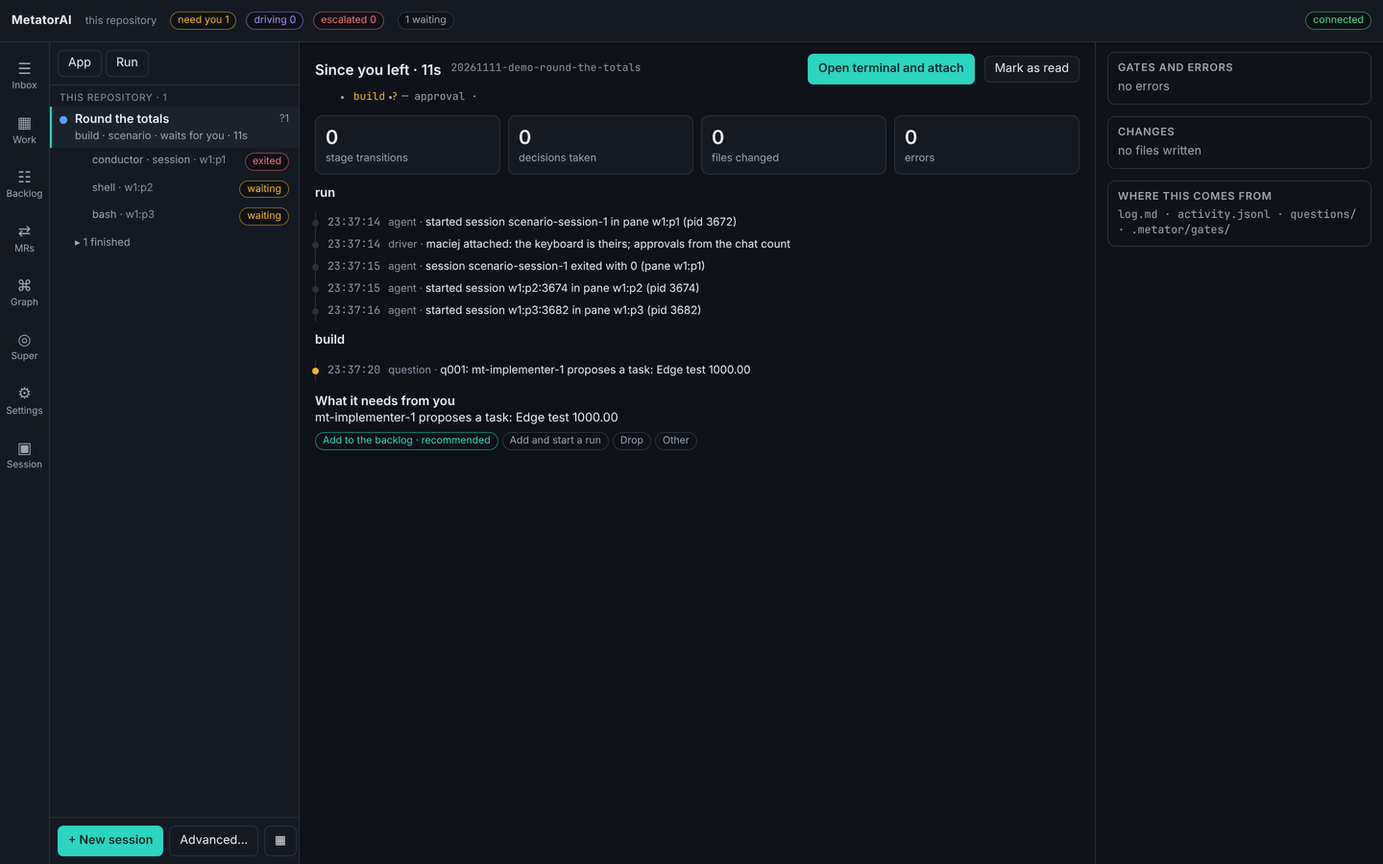
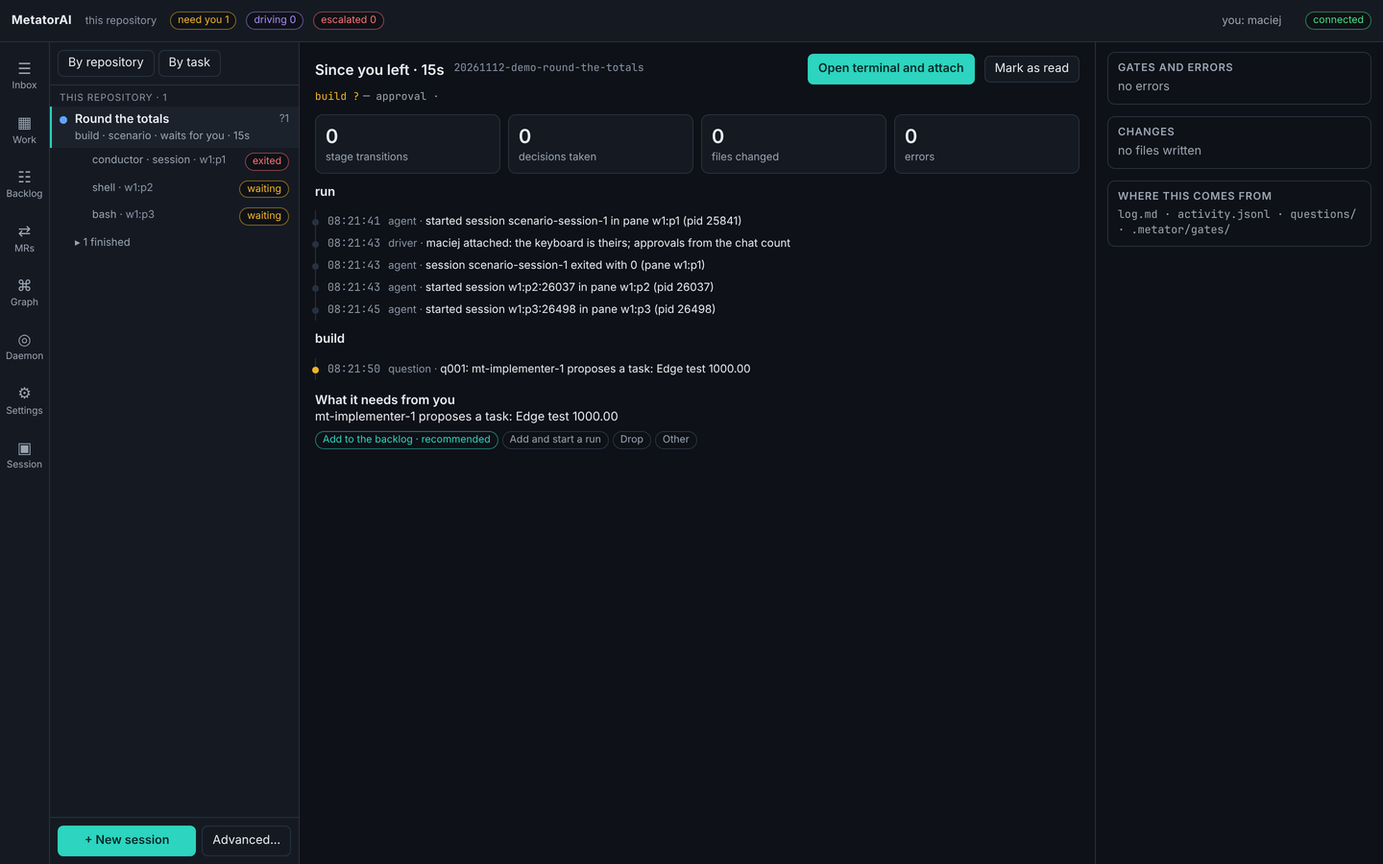
Desktop: the site and its screenshots follow the app; pane titles stay on one line
The pages under site/use and the first-run guide describe the name dialog,
the no-daemon panel, the host check, terminal asks, the required reason,
the repository select and the renamed labels (Daemon, By repository / By
task). The thirteen screenshots are taken again from the changed app.
A pane's title no longer covers the terminal's first line or wraps in a
narrow pane; the module cards cite the lines that moved.

Claude-Session: https://claude.ai/code/session_01Jm8qrbqgRxg49eTcPfKTwN

diff --git a/packages/desktop/src/screens/workbench.tsx b/packages/desktop/src/screens/workbench.tsx
@@ -536,10 +536,15 @@ export function WorkbenchScreen({
           <div className="empty" />
         )}
         {p.live?.alive ? null : (
-          <div className="pane-ended" role="status" data-testid={`ended-${p.id}`}>
+          <div
+            className="pane-ended"
+            role="status"
+            data-testid={`ended-${p.id}`}
+            title={p.live ? "The pane keeps the last output of the process." : undefined}
+          >
             <span className="msg">
               {p.live
-                ? `The process ended${p.live.exitCode !== undefined ? ` with code ${p.live.exitCode}` : ""}. Its last output is above.`
+                ? `The process ended${p.live.exitCode !== undefined ? ` with code ${p.live.exitCode}` : ""}.`
                 : "Nothing runs in this pane: its process did not start, or the daemon was restarted."}
             </span>
             <button type="button" className="primary" onClick={() => void retryPane(p)}>

diff --git a/packages/desktop/src/screens/supervisor.tsx b/packages/desktop/src/screens/supervisor.tsx
@@ -27,8 +27,9 @@ export function SupervisorScreen({
           <h2>Daemon</h2>
           <span className={`chip ${view ? "green" : "red"}`}>{view ? "running" : "no answer"}</span>
           <span className="dim">
-            {active.length} sessions · {installed.length} of {hosts.length} hosts installed · up{" "}
-            {view ? duration(view.daemon.uptimeMs) : "—"} · <code>{view?.daemon.url ?? url}</code>
+            {active.length} session{active.length === 1 ? "" : "s"} · {installed.length} of {hosts.length}{" "}
+            hosts installed · up {view ? duration(view.daemon.uptimeMs) : "—"} ·{" "}
+            <code>{view?.daemon.url ?? url}</code>
           </span>
           <span style={{ flex: 1 }} />
           <RepoSelect />

diff --git a/e2e/desktop-daemon.e2e.test.ts b/e2e/desktop-daemon.e2e.test.ts
@@ -228,7 +228,7 @@ describe("MetatorAI Desktop and the daemon's own troubles (real daemon, real Chr
     await ended.waitFor({ timeout: 20_000 });
     const panes = (await api("/layout")).data.panes as { id: string; process: { host: string } }[];
     expect(panes.map((p) => p.process.host)).toEqual(["claude"]);
-    expect(await ended.textContent()).toContain("The process ended with code 3. Its last output is above.");
+    expect(await ended.textContent()).toContain("The process ended with code 3.");
     await until("the last output", async () =>
       (await page.locator(".pane-frame").first().textContent())?.includes("claude: not logged in")
         ? true

diff --git a/packages/desktop/src/styles.css b/packages/desktop/src/styles.css
@@ -1308,9 +1308,14 @@ h3 {
   font-size: 12px;
   color: var(--dim);
   cursor: default;
-  /* A button is 28px tall by default: the title must not cover the terminal's first line. */
+  /* A button is 28px tall by default: the title must not cover the terminal's first line, in a
+     narrow pane either. */
   min-height: 0;
   line-height: 16px;
+  max-width: calc(100% - 28px);
+  white-space: nowrap;
+  overflow: hidden;
+  text-overflow: ellipsis;
 }
 .pane-frame.focus .title {
   color: #e8825a;

diff --git a/site/use/index.md b/site/use/index.md
@@ -20,15 +20,19 @@ Then open the app. The installers are built by the `desktop` workflow of the Met
 cd packages/desktop && bun run tauri dev     # needs Rust and the platform's webview
 ```
 
-The app looks for the daemon at the default address. The chip on the right of the top bar reads **connected** when it found it. If your daemon listens elsewhere, open **Settings**, choose the group **app** and change **daemon url** ([Your settings](./settings.md#daemon-address-and-your-name)).
+The app looks for the daemon at the default address. The chip on the right of the top bar reads **connected** when it found it.
+
+When nothing answers at that address, the chip reads **no daemon** and the main area shows one panel on every screen: what is wrong, the command `metator serve`, a field with the daemon's address, and **Retry**. If your daemon listens elsewhere, type its address in the field and click **Retry**; the app remembers it. The app also tries again by itself every two seconds, and the screen you were on returns as soon as the daemon answers. The same address is in **Settings**, group **app**, as **daemon url** ([Your settings](./settings.md#daemon-address-and-your-name)).
 
 ![The app with an empty Inbox: the screens on the left edge, the sessions panel, and the queue](../public/screens/inbox-empty.png)
 
 ## The window
 
-The top bar counts the runs: **need you** (a question waits for your answer), **driving** (an agent works) and **escalated** (the run stopped and needs work from you).
+The top bar counts the runs: **need you** (a question waits for your answer, on a card in the Inbox or in the run's terminal), **driving** (an agent works) and **escalated** (the run stopped and needs work from you). On the right it shows your name, **you: alice**. The app asks for it once, in a dialog, the first time you answer, attach or write a note; a click on the name changes it.
 
-The column on the left edge switches between the screens. Next to it is the sessions panel, which stays visible on every screen. The rest of the window is the screen you chose.
+The column on the left edge switches between the screens. Next to it is the sessions panel, which stays visible on every screen. The rest of the window is the screen you chose. In a window narrower than about 1000 pixels the sessions panel is hidden; the button **Sessions · N** in the top bar opens it over the screen.
+
+When the daemon serves a folder of repositories, the screens **Work**, **Backlog**, **MRs**, **Daemon** and **Settings** show one repository at a time. Each has a **repository** select at the top; the choice is shared by these screens and remembered. The screens of a run always use the run's own repository.
 
 ## Screens
 
@@ -39,7 +43,7 @@ The column on the left edge switches between the screens. Next to it is the sess
 | **Backlog** | add tasks, decide agents' proposals, start a run on a task ([Plan and backlog](./plan.md#backlog)) |
 | **MRs** | reviews of your pull requests, the proposed replies, and the buttons that send them ([Answer a review](./reviews.md)) |
 | **Graph** | the active runs by repository, with what links them |
-| **Super** | the daemon, the AI hosts it found, the active sessions and the supervisor's settings |
+| **Daemon** | the daemon, the AI hosts and whether each is installed, the active sessions and the supervisor's settings |
 | **Settings** | every option, its value and where the value comes from ([Your settings](./settings.md)) |
 
 A run has screens of its own. **Session** is added to the column while you look at a run.
@@ -56,11 +60,11 @@ Each repository is a lane and each active run a card with its task, stage, host 
 
 The **Links** box lists those pairs. For a shared file it says which run to merge first, and **Notify both** sends each of the two runs a message about the file.
 
-### Super
+### Daemon
 
-The **Super** screen is the daemon's own view. Four tiles show the median time from a question to its answer, the share of answers given from the decision card without opening the session, how often the supervisor restarted a session in the last 24 hours, and how often it nudged an idle one. Below is a table of the active sessions with their host, driver, state and last activity. A click on a row opens the session.
+The **Daemon** screen is the daemon's own view. Four tiles show the median time from a question to its answer, the share of answers given from the decision card without opening the session, how many sessions the daemon started again in the last 24 hours, and how many reminders it typed to an idle agent. Below is a table of the active sessions with their host, driver, state and last activity. A click on a row opens the session.
 
-The side column shows the supervisor's policy as it is in effect (the waiting limit, restarts, the host order) and the hosts installed on this machine. You change the policy in `metator.config.yml` ([Configuration](../reference/configuration.md#supervisor)).
+The side column shows how the daemon looks after sessions (the waiting limit, restarts, the host order) and, under **AI hosts**, each host with **installed** or **not installed**. The daemon looks the hosts up each time, so a host you install while it runs is found without a restart. You change the settings in `metator.config.yml` ([Configuration](../reference/configuration.md#supervisor)).
 
 ### Briefing
 
@@ -72,19 +76,19 @@ When you come back to the window after ten minutes away and a **Session** screen
 
 ## The sessions panel
 
-The panel lists the runs. Runs that wait for you come first, then the ones that work, then the rest. Each row shows the task, the stage, the host, the state and the time since the run started. A `?1` on the right counts the run's open questions. A click opens the run's **Session** screen.
+The panel lists the runs. Runs that wait for you come first, then the ones that work, then the rest. Each row shows the task, the stage, the host, the state and the time since the run started. A `?1` on the right counts the run's open questions. A run whose agent asks on its own terminal, with no card in the Inbox, reads **asks in its terminal** and has a `?`. A click opens the run's **Session** screen, on the pane that asks when there is one.
 
 A run with more than one pane lists its panes under it, each with its state. A click on a pane opens the session on that pane.
 
-**App** and **Run** at the top switch the grouping. **App** groups the active runs by repository. **Run** groups the steps of a split task under their parent run, with a count of the steps done, and lists the other runs as standalone. Finished runs are folded into one line at the bottom, such as **1 finished**.
+**By repository** and **By task** at the top switch the grouping. **By repository** groups the active runs by repository. **By task** groups the steps of a split task under their parent run, with a count of the steps done, and lists the other runs under **not split**. Finished runs are folded into one line at the bottom, such as **1 finished**.
 
 The buttons at the bottom start work:
 
 - **+ New session** opens a pane with the agent, and you tell it what you want.
 - **Advanced…** opens a form where you choose the workflow, host, autonomy and worktree yourself.
 
-[Start a task](./start.md) covers both. The key `n` does the same as **+ New session**, and `g` opens the next session that waits for you. Both keys work when the cursor is not in a text field.
+[Start a task](./start.md) covers both. The key `n` does the same as **+ New session**, and `g` opens the next session that waits for you. Single-letter keys like these work when the cursor is not in a text field and no Ctrl, Cmd or Alt is held, so the system's own shortcuts stay what they are. `Esc` closes a dialog, also from a field.
 
 ## Notifications
 
-A question that was not in the queue before raises a system notification, "MetatorAI needs you", with the question's text. The first time, the system asks whether the app may notify you. On **Work**, a waiting question of an open tab also shows as a toast. A click on the toast opens the tab and gives you the keyboard of the run's main pane.
+A question that was not in the queue before raises a system notification, "MetatorAI needs you", with the question's text. The first time, the system asks whether the app may notify you. On **Work**, a waiting question of an open tab also shows as a toast with the first two lines of the question. A click on the toast opens the question's decision card in the Inbox; for a permission prompt of the host, which is answered in the terminal, it opens the tab and gives you the keyboard of the run's main pane. The `✕` on the toast hides it; the question stays in the Inbox.

diff --git a/site/use/start.md b/site/use/start.md
@@ -4,7 +4,11 @@ You start work by telling the agent what you want. It answers questions about th
 
 ## In the app
 
-Click **+ New session** at the bottom of the sessions panel, or press `n`. The app opens the **Work** screen with a new tab named `intake`. Its pane runs the agent `mt-orchestrator` on your AI host: the first host of the option `supervisor.hostOrder` that is installed on this machine.
+Click **+ New session** at the bottom of the sessions panel, or press `n`. The app opens the **Work** screen with a new tab named `intake`. Its pane runs the agent `mt-orchestrator` on your AI host: the first host of the option `supervisor.hostOrder` that is installed on the daemon's machine.
+
+When no host is installed, no tab opens. The app says so at the top of the screen, names the programs the daemon looked for, and points to the guide page [Copilot and Claude Code](../guide/hosts.md). Install one and click **+ New session** again; the daemon needs no restart.
+
+If the host's program starts and exits at once, for example because you are not logged in, the pane stays with its last output and a line such as "The process ended with code 3." **Retry** starts it again and **Close tab** removes the tab.
 
 Write what you need in the pane. A conversation can look like this:
 
@@ -36,20 +40,18 @@ Text you paste from an issue, a pull request or a chat is data for the task. The
 | **Repository** | which repository the run belongs to; shown only when the daemon serves a folder of repositories |
 | **Workflow** | one of the repository's workflows ([the table below](#pick-a-workflow)) |
 | **Task** | what to do, in one or two sentences |
-| **Host** | the AI host that drives the run, or **create only, drive later** |
-| **Autonomy** | **L0 · every gate asks** or **L1 · gates pass on green** ([Gates and approvals](../guide/gates.md#autonomy)) |
+| **Host** | the AI host that drives the run: the first installed one of `supervisor.hostOrder` is chosen, a host that is not installed is greyed out; or **create only, drive later** |
+| **Autonomy** | **L0: asks at every gate** or **L1: skips the gates the workflow allows** ([Gates and approvals](../guide/gates.md#autonomy)) |
 | **Workspace** | a worktree with its own ports (ticked by default), or the main checkout ([Sessions and worktrees](./sessions.md#what-a-worktree-gives-a-run)) |
 | **Parent run** | an active run this one is a step of, or **none (standalone)** |
-| **Start actions** | **attach me when it first asks** opens the session with you at the keyboard |
-| **Your name** | who approves; the app remembers it |
 
-The bottom line of the form shows the `metator run init` command your choices amount to. **Create in background** starts the run and leaves you where you are. **Create and attach** starts it, opens its **Session** screen and gives you its keyboard.
+The bottom line of the form shows the `metator run init` command your choices amount to. **Create in background** starts the run and leaves you where you are. **Create and attach** starts it, opens its **Session** screen and gives you its keyboard; the app asks for your name first if it does not know it yet. `Esc` closes the form.
 
 When as many sessions already wait for you as `supervisor.wipLimit` allows (default 4), the form warns that the new one queues behind them.
 
 ### From the backlog
 
-On the **Backlog** screen, **Start a run** on an open task starts a run with the task's title and text ([Plan and backlog](./plan.md#backlog)).
+On the **Backlog** screen, **Start a run** on an open task starts a run with the task's title and text, on the workflow chosen beside the button ([Plan and backlog](./plan.md#backlog)).
 
 ## In Copilot Chat or Claude Code
 

diff --git a/site/use/inbox.md b/site/use/inbox.md
@@ -18,7 +18,7 @@ An agent works without asking when it runs the MetatorAI commands its definition
 
 ![The Inbox with a gate's decision card: the goal, the evidence, three options and the answer buttons](../public/screens/inbox.png)
 
-Each row shows the kind (`GATE`, `PERMISSION` or `QUESTION`), how long the question has waited, its text and its run. A click on a row opens its decision card on the right:
+Each row shows the kind (`GATE`, `PERMISSION` or `QUESTION`), how long the question has waited, the first two lines of its text and its run. A click on a row opens its decision card on the right:
 
 | Part | What it tells you |
 |---|---|
@@ -33,16 +33,21 @@ The card is assembled from the run's files when the question is asked. No model 
 
 To answer:
 
-1. Click an option. The recommended one is chosen when the card opens.
-2. With Reject or Other, write your reason or your answer in the field **a note for the log (optional)**.
-3. Type your name in the last field, once. The app remembers it.
-4. Click the first button. It carries the name of the option you chose, such as **Approve**. The button next to it sends the first of the other options in one click.
+1. Click an option. The recommended one is chosen when the card opens. A question that allows several answers says **choose one or more**: each click adds or removes an option, and nothing is chosen for you.
+2. The field under the options is **Note (optional)**. With Reject or Other it becomes **Reason for Reject (required)**, and the answer cannot be sent until you have written it.
+3. Click the first button, or press `Enter`. The button carries the options you chose, such as **Approve**. The button next to it sends the first of the other options in one click; when that option is Reject, it chooses it and puts the cursor in the reason field.
 
-The line under the buttons shows the command your answer amounts to. **Open session** (or the key `o`) opens the run's **Session** screen when you want to see the terminal first. The key `g` moves to the next item of the queue.
+The first time you answer, the app asks for your name in a dialog and remembers it.
+
+The line under the buttons shows the command your answer amounts to. **Changes** opens the run's change ([Read the change](./changes.md)) and **Open session** (or the key `o`) the run's **Session** screen, when you want to look before you decide. The key `g` moves to the next item of the queue.
 
 The daemon carries out the answer. If no drive is running, it starts one again on the host the run used. What you write in your own words is passed to every later agent of the run as a decision to follow.
 
-With nothing open the screen reads **Inbox zero**.
+With nothing open the screen reads **Inbox zero**. It says so only while the daemon answers.
+
+## Questions asked in the terminal
+
+An agent can also stop at a question it wrote on its own screen, without a card. Such a run still counts in **need you**. The Inbox lists it under the queue as a row marked `TERMINAL`, with the task and **answers in its terminal**. A click opens the run's **Session** screen on the pane that asks. Attach and type the answer there ([Sessions and worktrees](./sessions.md)).
 
 ## Permission prompts of the host
 

diff --git a/site/use/sessions.md b/site/use/sessions.md
@@ -8,9 +8,11 @@ A click on a run in the sessions panel opens its **Session** screen.
 
 ![A session while the agent drives: the stages, the driver bar, the terminal, and the boxes on the right](../public/screens/session.png)
 
-The head shows the task, the run id and chips for the workflow, the autonomy level, the host, the worktree's ports and the time since the run started. Under them is the line of stages, with the current one marked.
+The head shows the task, the run id and chips for the workflow, the autonomy level with what it means (**L0: asks at every gate**), the host, the worktree's ports and the time since the run started. Under them is the line of stages, with the current one marked.
 
-The driver bar says who types. With **Driver: agent** you watch. Type your name and click **Attach** (key `a`) to take the keyboard. **Release to agent** (key `c`) gives it back. While you are attached, your yes in the chat counts as an approval ([Workbench and terminals](./desktop.md#who-types-in-a-session)).
+The driver bar says who types. With **Driver: agent** you watch. Click **Attach** (key `a`) to take the keyboard; the app asks for your name the first time. **Release to agent** (key `c`) gives it back.
+
+When the agent asks on its own screen, with no card in the Inbox, a line above the terminal says **The agent asks in its terminal**, with **Show the pane** when another pane is the one that asks. Attach and type the answer. While you are attached, your yes in the chat counts as an approval ([Workbench and terminals](./desktop.md#who-types-in-a-session)).
 
 Below the driver bar:
 
@@ -22,7 +24,7 @@ The boxes on the right:
 
 | Box | Shows |
 |---|---|
-| **Question** | the run's open question with a button per option; empty when nothing waits |
+| **Question** | the run's open question with a button per option. A click on a plain option answers. Reject and Other first ask for the reason, and a question with several answers lets you choose them, then **Send**. Empty when nothing waits |
 | **Apps** | the services of the worktree's environment, with their state and ports |
 | **Changes** | **Review** opens the run's change ([Read the change](./changes.md)); **Open in editor** opens the worktree; below are the branch and the path |
 | **Links** | the parent run and the steps, files this run shares with another run (with which to merge first), and messages from other runs |

diff --git a/site/use/settings.md b/site/use/settings.md
@@ -21,7 +21,7 @@ Each row is one option: its name, what it does, its value, and where the value c
 | **repo** | the repository's `metator.config.yml` sets it |
 | **run** | a run overrides it for itself |
 
-Change a value in place: tick a box, pick from a list, or type and leave the field. The change is saved at once. A row whose value is not the default has a button, **default**, which removes the value from the file. A chip **restart** marks an option that the daemon reads only when it starts.
+Change a value in place: tick a box, pick from a list, or type and leave the field. The change is saved at once. A value the daemon refuses is not kept: the field goes back to the value that holds, and the reason stays at the top of the list until you close it. A row whose value is not the default has a button, **default**, which removes the value from the file and shows the default in the field. A chip **restart** marks an option that the daemon reads only when it starts.
 
 The app writes your own options to your file and the repository's options to `metator.config.yml`. The bottom of the left column names both files.
 
@@ -141,6 +141,6 @@ The group **app** on the Settings screen holds two values that belong to this wi
 | **daemon url** | the address of the `metator serve` this app talks to; `http://127.0.0.1:4310` by default |
 | **your name** | who attaches, answers and approves from this app |
 
-The app also asks for your name the first time you answer, attach, add a note or decide a task, and remembers it. The name goes into the run's log next to every decision. From a terminal the same name is the `--by` option.
+The app also asks for your name, in a dialog, the first time you answer, attach, add a note or decide a task, and remembers it. The top bar shows it as **you: alice**; a click there changes it. The name goes into the run's log next to every decision. From a terminal the same name is the `--by` option.
 
 To open the app on another daemon once, add `?daemon=http://127.0.0.1:4310` to the app's address.

diff --git a/site/use/desktop.md b/site/use/desktop.md
@@ -10,6 +10,10 @@ Each run in its worktree is a tab, and a shell can have a tab of its own. The **
 
 The tab's area is split into panes: the agents' terminals and your own shells. A pane's frame names the agent or the command, its host and its state, and says **yours** when you hold its keyboard. Drag a divider to resize. Double-click a pane's title to zoom it.
 
+A pane whose process ended keeps its last output. A line under it gives the exit code, with **Retry**, which starts the same program again, and **Close tab** (or **Close pane** when the tab has other panes).
+
+When the daemon is restarted, the terminals reconnect by themselves once it answers again.
+
 The column on the left lists the repositories, and under them the panes of each tab with their state. A click on a pane focuses it.
 
 A right click on a pane opens its menu: **Take the keyboard**, **Zoom**, **Split right**, **Split down**, **Copy mode**, **Plan of the run**, **Changes**, **Open in editor**, **New task from here…** (the backlog's form, pointing at this run) and **Close pane**. A right click on a tab or the tab bar offers **New tab: shell**, **New tab: task in a new worktree…**, **Backlog…**, **New shell pane here** and **Close tab**. Closing a task's tab closes its panes. The worktree stays.

diff --git a/docs/metator/modules/metator-desktop.card.md b/docs/metator/modules/metator-desktop.card.md
@@ -26,8 +26,10 @@ MetatorAI Desktop (D7, ADR-0078): the Vite + React app and its Tauri shell, a th
 ## Invariants
 
 - The app imports nothing from `@metator/*`: the daemon's shapes are typed in the client [[cite: packages/desktop/src/api.ts:2 | "The daemon's JSON and WebSockets, as the app sees them"]].
-- An answer from the decision card carries `origin: inbox`, what criterion 11a counts [[cite: packages/desktop/src/components/decision-card.tsx:48 | "\"inbox\","]].
+- An answer from the decision card carries `origin: inbox`, what criterion 11a counts [[cite: packages/desktop/src/components/decision-card.tsx:33 | "origin: \"inbox\","]].
 - View logic is pure in `src/model.ts` and tested; components only render.
+- A request repeated on an interval goes through `usePolled`, the person's name through `useWho` (one dialog), a single-letter shortcut through `plainKey`, and an answer to a question through `useAnswer` (`src/components/answer.tsx`); none of these is written a second time in a screen.
+- With no daemon the shell draws one panel (`NoDaemon`) instead of the screens, so no screen shows empty data as if it were true.
 
 ## Allowed dependencies
 

diff --git a/site/use/plan.md b/site/use/plan.md
@@ -42,13 +42,13 @@ The **Backlog** screen lists **agents' proposals** first, then the **open** task
 | Button | On | Does |
 |---|---|---|
 | **+ task** | the top bar | opens a form: title, what and why, priority, labels |
-| **Start a run** | an open task | starts a run with the task's title and text, in a new worktree, and opens its session |
+| **Start a run** | an open task | starts a run with the task's title and text, in a new worktree, and opens its session. The select **a run starts on** beside the buttons names the workflow: `mt-feature` when the repository has it, else its first one |
 | **Done**, **Drop** | an open task | closes it as done, or as not going to be done |
 | **Add** | a proposal | makes it a task |
 | **Add and start a run** | a proposal | makes it a task and starts a run on it |
 | **Drop** | a proposal | discards it |
 
-The app asks for your name the first time. Every change to the backlog carries it.
+The app asks for your name the first time. Every change to the backlog carries it. When the daemon refuses an action, the reason stays at the top of the task until you close it.
 
 ### Proposals from agents
 
